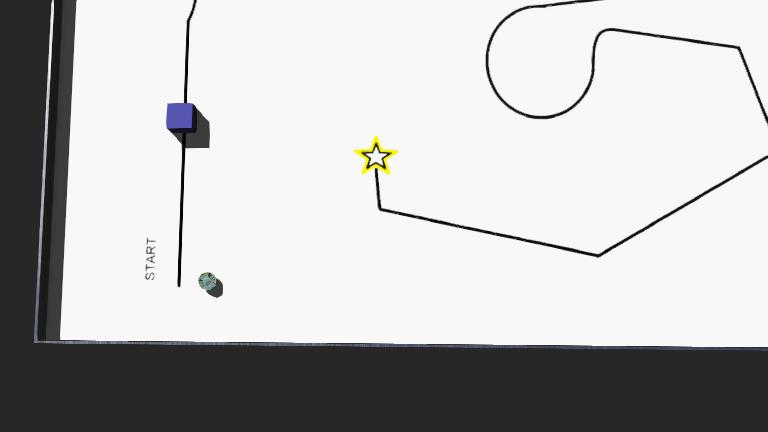
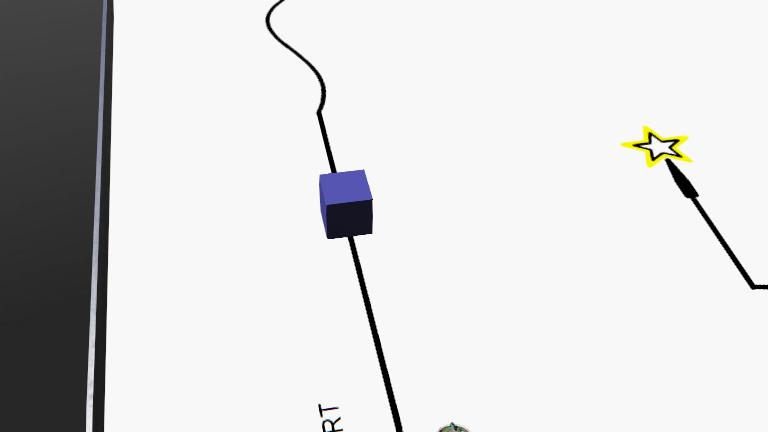
Maybe final

diff --git a/controllers/line_follower_avoiding/line_follower_avoiding.c b/controllers/line_follower_avoiding/line_follower_avoiding.c
@@ -18,6 +18,8 @@
 #include <webots/gyro.h>
 #include <webots/distance_sensor.h>
 #include <math.h>
+#include <webots/led.h>
+
 
 
 /*
@@ -80,7 +82,7 @@ int main(int argc, char **argv) {
   static double last_error = 0;
   static bool turning = 0;
   double velocity = 0; //m/s
-  static int state = 0;//0 = searching for line , 1 = avoiding obstacle, 2 = following line
+  static int state = 0;//0 = searching for line , 1 = avoiding obstacle, 2 = following line, 3 = reached the finnish line
   static double search = SEARCH_CONSTANT; // used for searching the line in a spiral that gets bigger
   int stuck_ellapsed = 0;
   double base_speed = 1.2;
@@ -145,6 +147,8 @@ int main(int argc, char **argv) {
       
       if(stuck_ellapsed>=STUCK_THREASHOLD) // if the robot has been stuck for more than STUCK_THREASHOLD cycles we perform a tank turn in the last direction performed
       {
+        state = 3;
+      /*
         if (last_error > 0) 
          {
            // turn right 
@@ -157,7 +161,7 @@ int main(int argc, char **argv) {
          // turn left
          left_speed = base_speed *0.8;
          right_speed = base_speed ;
-       }
+       }*/
      }
     }
     
@@ -257,14 +261,28 @@ int main(int argc, char **argv) {
     
     ///if the robot reads the line
     ///stop turning
-    if (off_track == 0)
+    if (off_track == 0 && state!= 3)
     {
       state = 2;///enter the line following state
       turning = 0; ///stop turning
       search = SEARCH_CONSTANT;///reset the search spiral to small
     }
 
-    
+    if(state == 3)
+    {
+      left_speed  = 0;
+      right_speed = 0;
+      WbDeviceTag led0 = wb_robot_get_device("led0");
+      WbDeviceTag led2 = wb_robot_get_device("led2");
+      WbDeviceTag led4 = wb_robot_get_device("led4");
+      WbDeviceTag led6 = wb_robot_get_device("led6");
+      
+      wb_led_set(led0, 1);
+      wb_led_set(led2, 1);
+      wb_led_set(led4, 1);
+      wb_led_set(led6, 1);
+
+    }
     
     ///change the motor speeds with the calculated values
     wb_motor_set_velocity(left_motor, left_speed); 
@@ -292,7 +310,7 @@ int main(int argc, char **argv) {
     velocity+=a[0]/15.625;
     printf("Acc: %f %f %f       speed(cm/s): %lf\n", a[0], a[1], a[2], velocity*100); 
     printf("Gyro: %f %f %f       state: %d\n", g[0], g[1], g[2], state);
-    printf("\n");printf("\n");printf("\n");
+    printf("\n");
     
   };
 
